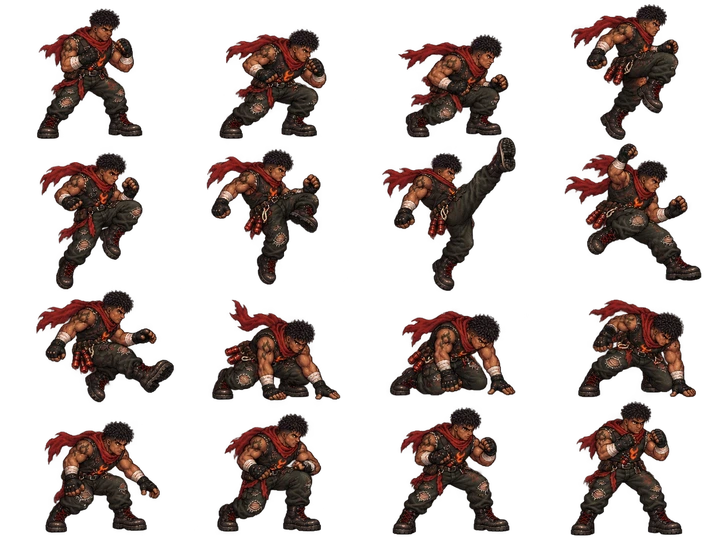
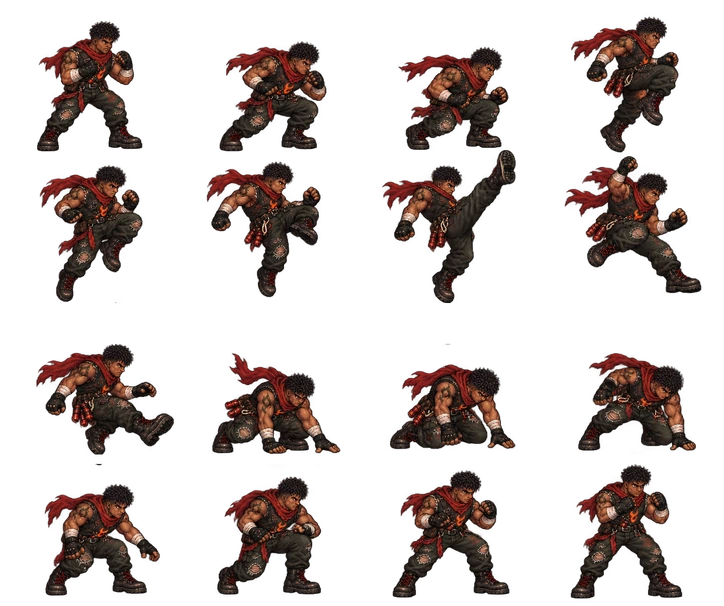
fix(gangues): FaiscaSocoNormal.png com mesmo caso de linhas desiguais da Catraca (pad+halve) + v10.280.195/v3.27.3
Isaias mediu no Photoshop e mandou os numeros direto (y=277,5/580,5/802),
confirmados por alpha pixel a pixel. Mesma tecnica da v3.27.2: recorta
cada linha na altura real (278/303/221/284px) e completa com padding
transparente ate a maior (303px). Canvas reconstruido 1448x1212, webp
final 724x606, frameH = 151.5. Confirmado ao vivo pelo Isaias.

diff --git a/src/config/version.js b/src/config/version.js
@@ -8,13 +8,13 @@
  */
 
  // ── Site ──────────────────────────────────────────
-export const SITE_VERSION = '10.280.194' // fix: LDI Gangues - CatracaSocoNormal.png nao tem 4 linhas de altura uniforme (medido pixel a pixel, alturas reais 288/279/264/255, divisao 3a/4a linha sem nenhuma faixa 100% transparente) - grade uniforme de qualquer altura fixa sempre cortava/sobrepunha. Corrigido recortando cada linha na altura real e completando com transparencia (pad+halve+webp) ate ficarem uniformes. Ver GANGUES_VERSION.
+export const SITE_VERSION = '10.280.195' // fix: LDI Gangues - FaiscaSocoNormal.png tambem tinha linhas de altura desigual (mesmo caso da Catraca em v10.280.194) - Isaias mediu no Photoshop (277.5/580.5/802), corrigido com o mesmo pad+halve+webp. Ver GANGUES_VERSION.
 
 // ── Games ─────────────────────────────────────────
 export const PP_VERSION        = '2.3.1'  // Pesadelo Particular — fix: guest i18n keys movidas para o namespace pp em pt/en/es.json
 export const LDI_VERSION       = '2.0.1'  // Lendas do LDI — guest aviso melhorado no lobby (título, texto explicativo, link cadastro)
 export const JACK_VERSION      = '5.3.2'  // Jack Dream Beer — correção de encoding em comentário
-export const GANGUES_VERSION   = '3.27.2' // fix (Isaias mandou 3 prints do Photoshop com guia em y=288/567/831 e insistiu "os numeros exatos" - eu tinha dito que a divisao 3a/4a linha "nao tinha corte valido", ele discordou): medi o canal alfa pixel a pixel da CatracaSocoNormal.png (nao no olho) - as 4 linhas NAO tem altura igual: 288/279/264/255px reais (confirmado: y=288 e y=567 sao faixas 100% transparentes em toda a largura, bateram exato com os numeros do Isaias; a divisao 3a/4a de fato nao tem NENHUM y com toda a largura transparente, mas o alpha la e de chicote fino, imperceptivel - o Isaias tinha razao que dava pra usar aquele ponto). Como GanguesCombatSpriteAnim.jsx exige linhas de altura IGUAL (background-position em % so funciona assim), nao dava pra usar os 3 cortes direto - a solucao foi recortar cada linha na altura REAL dela (0-288, 288-567, 567-831, 831-1086) e completar com padding transparente ate a maior (288px), technique "pad+halve+webp" ja usada nesse projeto antes pra sheet fora do padrao. Canvas reconstruido 1448x1152, webp final 724x576, frameH = 576/4 = 144 (exato). So `catraca.ataqueNormal` mudou - as outras 5 folhas (Fenda x2, Catraca dano, Faisca x2) tem linhas uniformes de verdade, nao precisavam disso. Confirmado ao vivo dentro do jogo real, contact sheet de 16 quadros, zero corte/sobreposicao.
+export const GANGUES_VERSION   = '3.27.3' // fix: mesmo caso da Catraca (v3.27.2) - FaiscaSocoNormal.png tambem tem linhas de altura desigual. Isaias mediu no Photoshop (y=277,5/580,5/802) e mandou os numeros direto; confirmado por alpha pixel a pixel (baixa contagem de pixel opaco exatamente nesses pontos). Alturas reais 278/303/221/284px. Mesma tecnica pad+halve+webp: recorta cada linha na altura real, completa com padding ate a maior (303px). Canvas reconstruido 1448x1212, webp final 724x606, frameH = 606/4 = 151.5. Confirmado ao vivo pelo Isaias ("funcinou").
 
 export const TAMA_VERSION      = '3.4.1' // Tamagoshi LDI — preserva oferta inicial ao voltar do gacha pago
 export const DUELO_VERSION     = '2.8.1'  // Duelo LDI — TrapActivator: CSS extraído de inline para arquivo próprio

diff --git a/src/pages/games/Gangues/data/ganguesCombatAnimations.js b/src/pages/games/Gangues/data/ganguesCombatAnimations.js
@@ -217,10 +217,16 @@ const DADOS_POR_SLUG = {
   },
   faisca: {
     ataqueNormal: {
-      // Fonte 1448×1086 → webp 724×543 → frameH real = 135.75.
+      // Mesmo caso da Catraca (v3.27.2) — linhas de altura desigual.
+      // Isaias mediu no Photoshop: y=277,5 / 580,5 / 802 (confirmado por
+      // alpha pixel a pixel — baixa contagem de pixel opaco exatamente
+      // nesses pontos, igual a Catraca). Alturas reais 278/303/221/284px.
+      // Recortado cada linha na altura real e completado com padding até
+      // a maior (303px) — "pad+halve+webp". Canvas reconstruído
+      // 1448×1212, webp final 724×606 → frameH = 606/4 = 151.5.
       // Chute voador, sem flash de impacto desenhado — pico da extensão
       // da perna no ar (quadro 7, linha 2 col 3) é o golpe de fato.
-      frameW: 181, frameH: 135.75, cols: 4, rows: 4, frames: 16, frameMs: 80,
+      frameW: 181, frameH: 151.5, cols: 4, rows: 4, frames: 16, frameMs: 80,
       sons: { golpes: [{ frame: 7, arquivo: som('trinca-soco') }] },
     },
     dano: {

diff --git a/SITE_MAP.md b/SITE_MAP.md
@@ -1,7 +1,7 @@
 # ILLUSIONFIGHT.COM — MAPA DO SITE E DO PROJETO
 
 > Referência do estado atual do projeto para navegação humana e contexto de IA.
-> Atualizado em 2026-09-18 — `SITE_VERSION` **10.280.194**.
+> Atualizado em 2026-09-18 — `SITE_VERSION` **10.280.195**.
 > Histórico de tarefas, bugfixes e pendências não pertence a este documento.
 > Regras de trabalho, arquivos proibidos e decisões arquiteturais: `AGENTS.md`.
 
@@ -390,11 +390,11 @@ Fonte única: `src/config/version.js`. Esta tabela registra somente a identifica
 
 | Constante | Módulo | Versão |
 |---|---|---:|
-| `SITE_VERSION` | Site global | **10.280.194** |
+| `SITE_VERSION` | Site global | **10.280.195** |
 | `PP_VERSION` | Pesadelo Particular | 2.3.1 |
 | `LDI_VERSION` | Lendas do LDI | 2.0.1 |
 | `JACK_VERSION` | Jack Dream Beer | 5.3.2 |
-| `GANGUES_VERSION` | LDI Gangues | 3.27.2 |
+| `GANGUES_VERSION` | LDI Gangues | 3.27.3 |
 | `TAMA_VERSION` | Tamagoshi LDI | 3.4.1 |
 | `DUELO_VERSION` | Duelo LDI | 2.8.1 |
 | `MINIGAMES_VERSION` | MiniGames | 4.3.6 |
